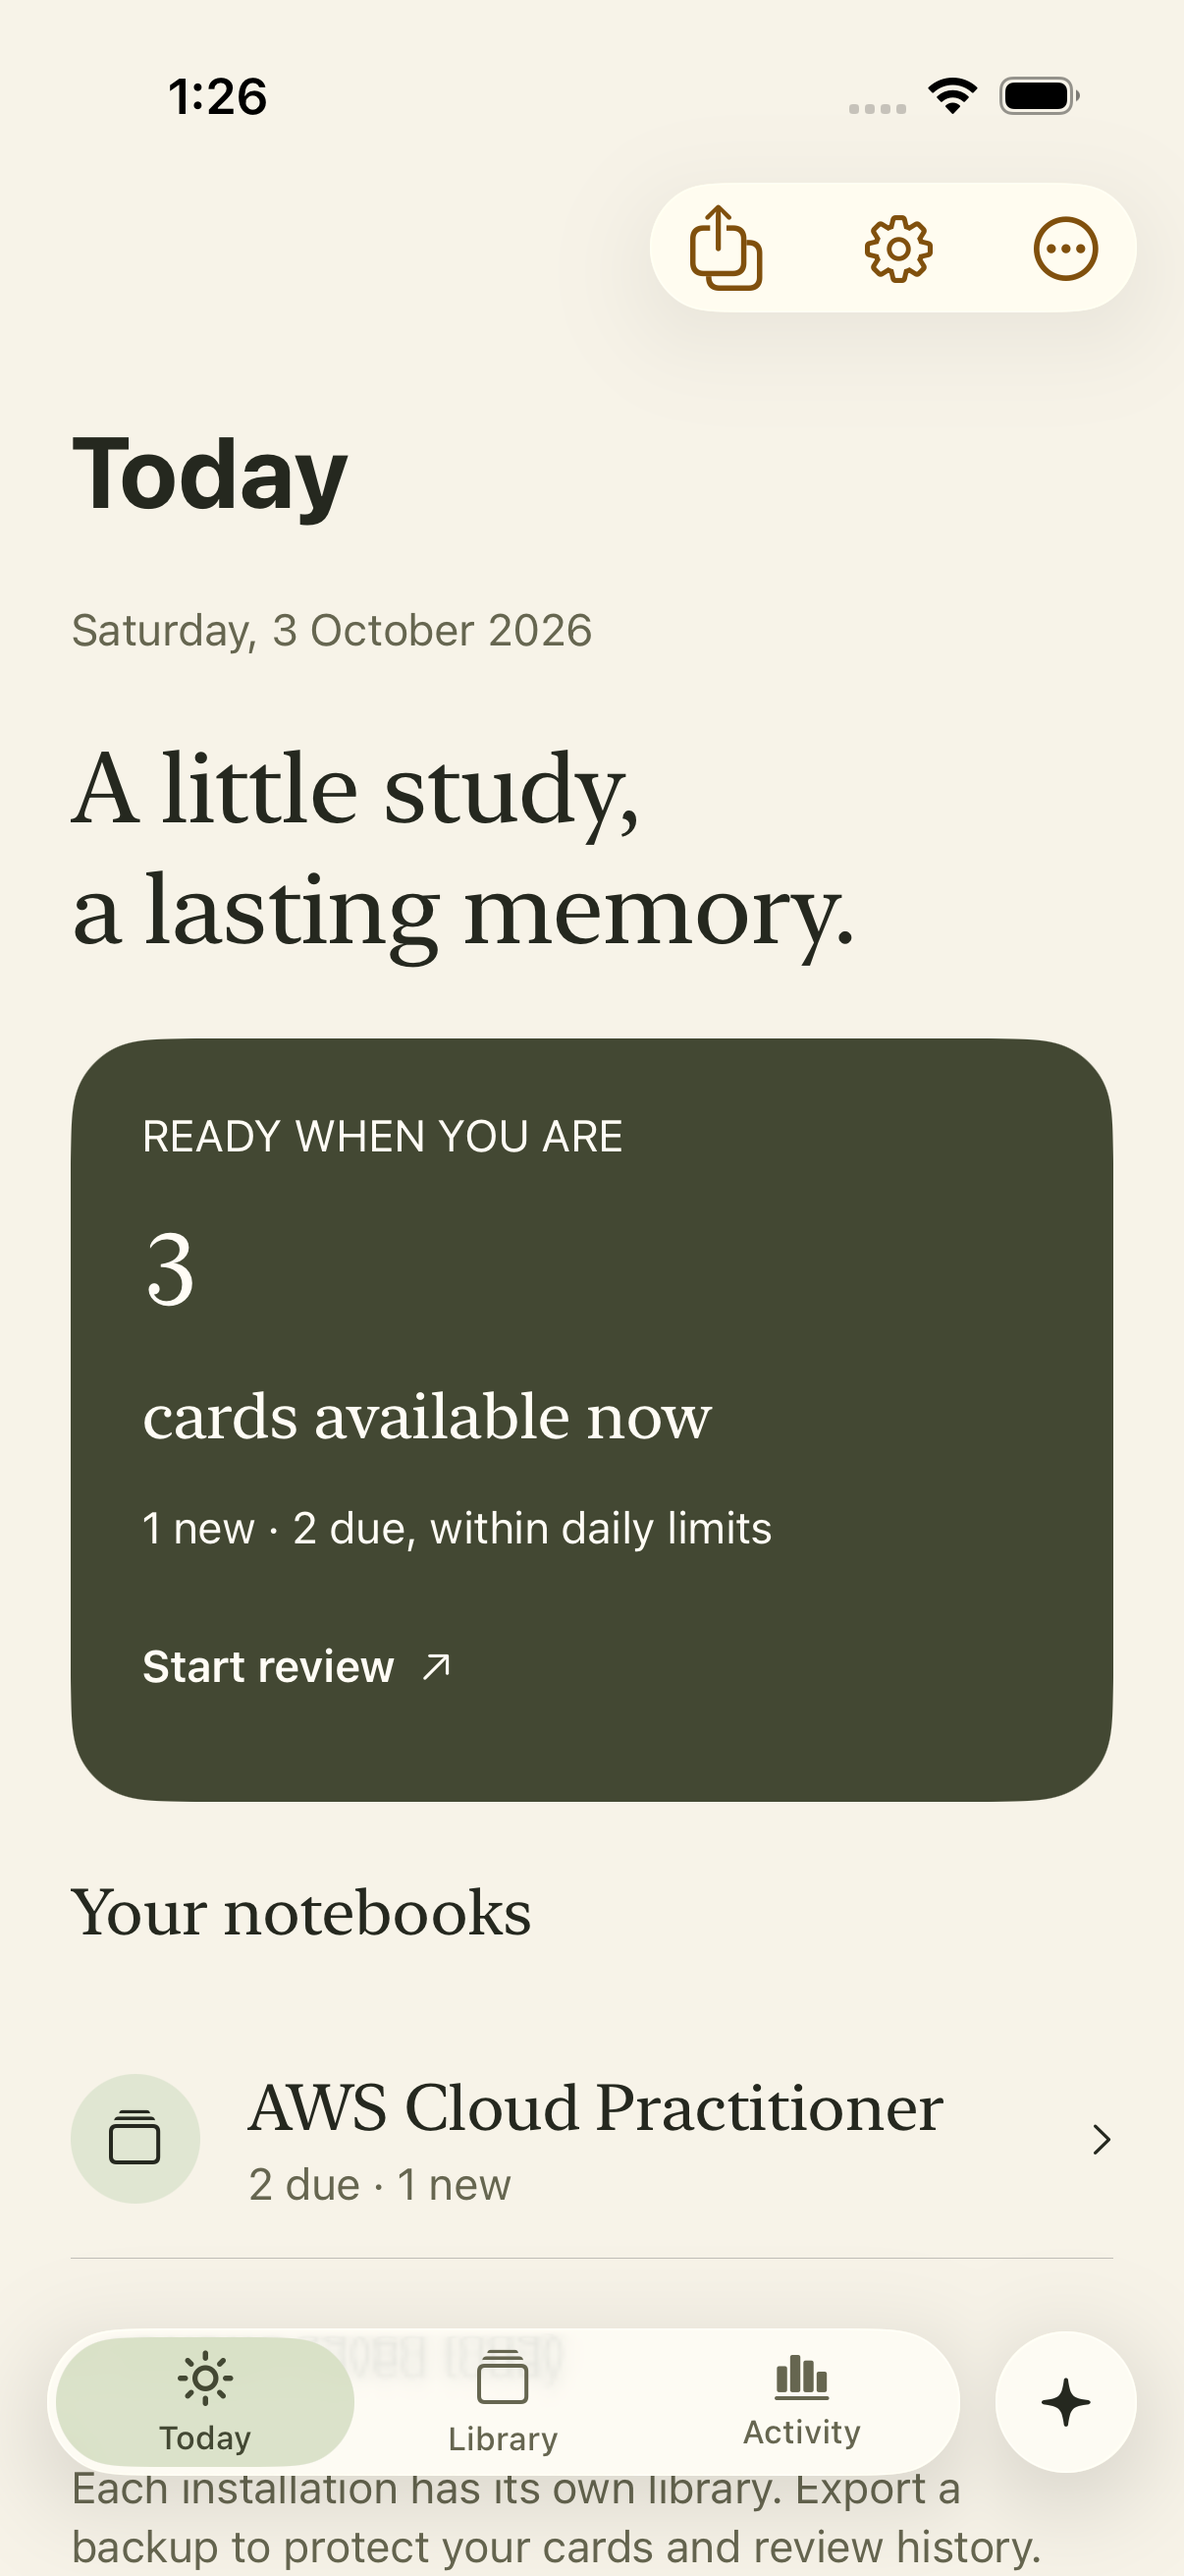
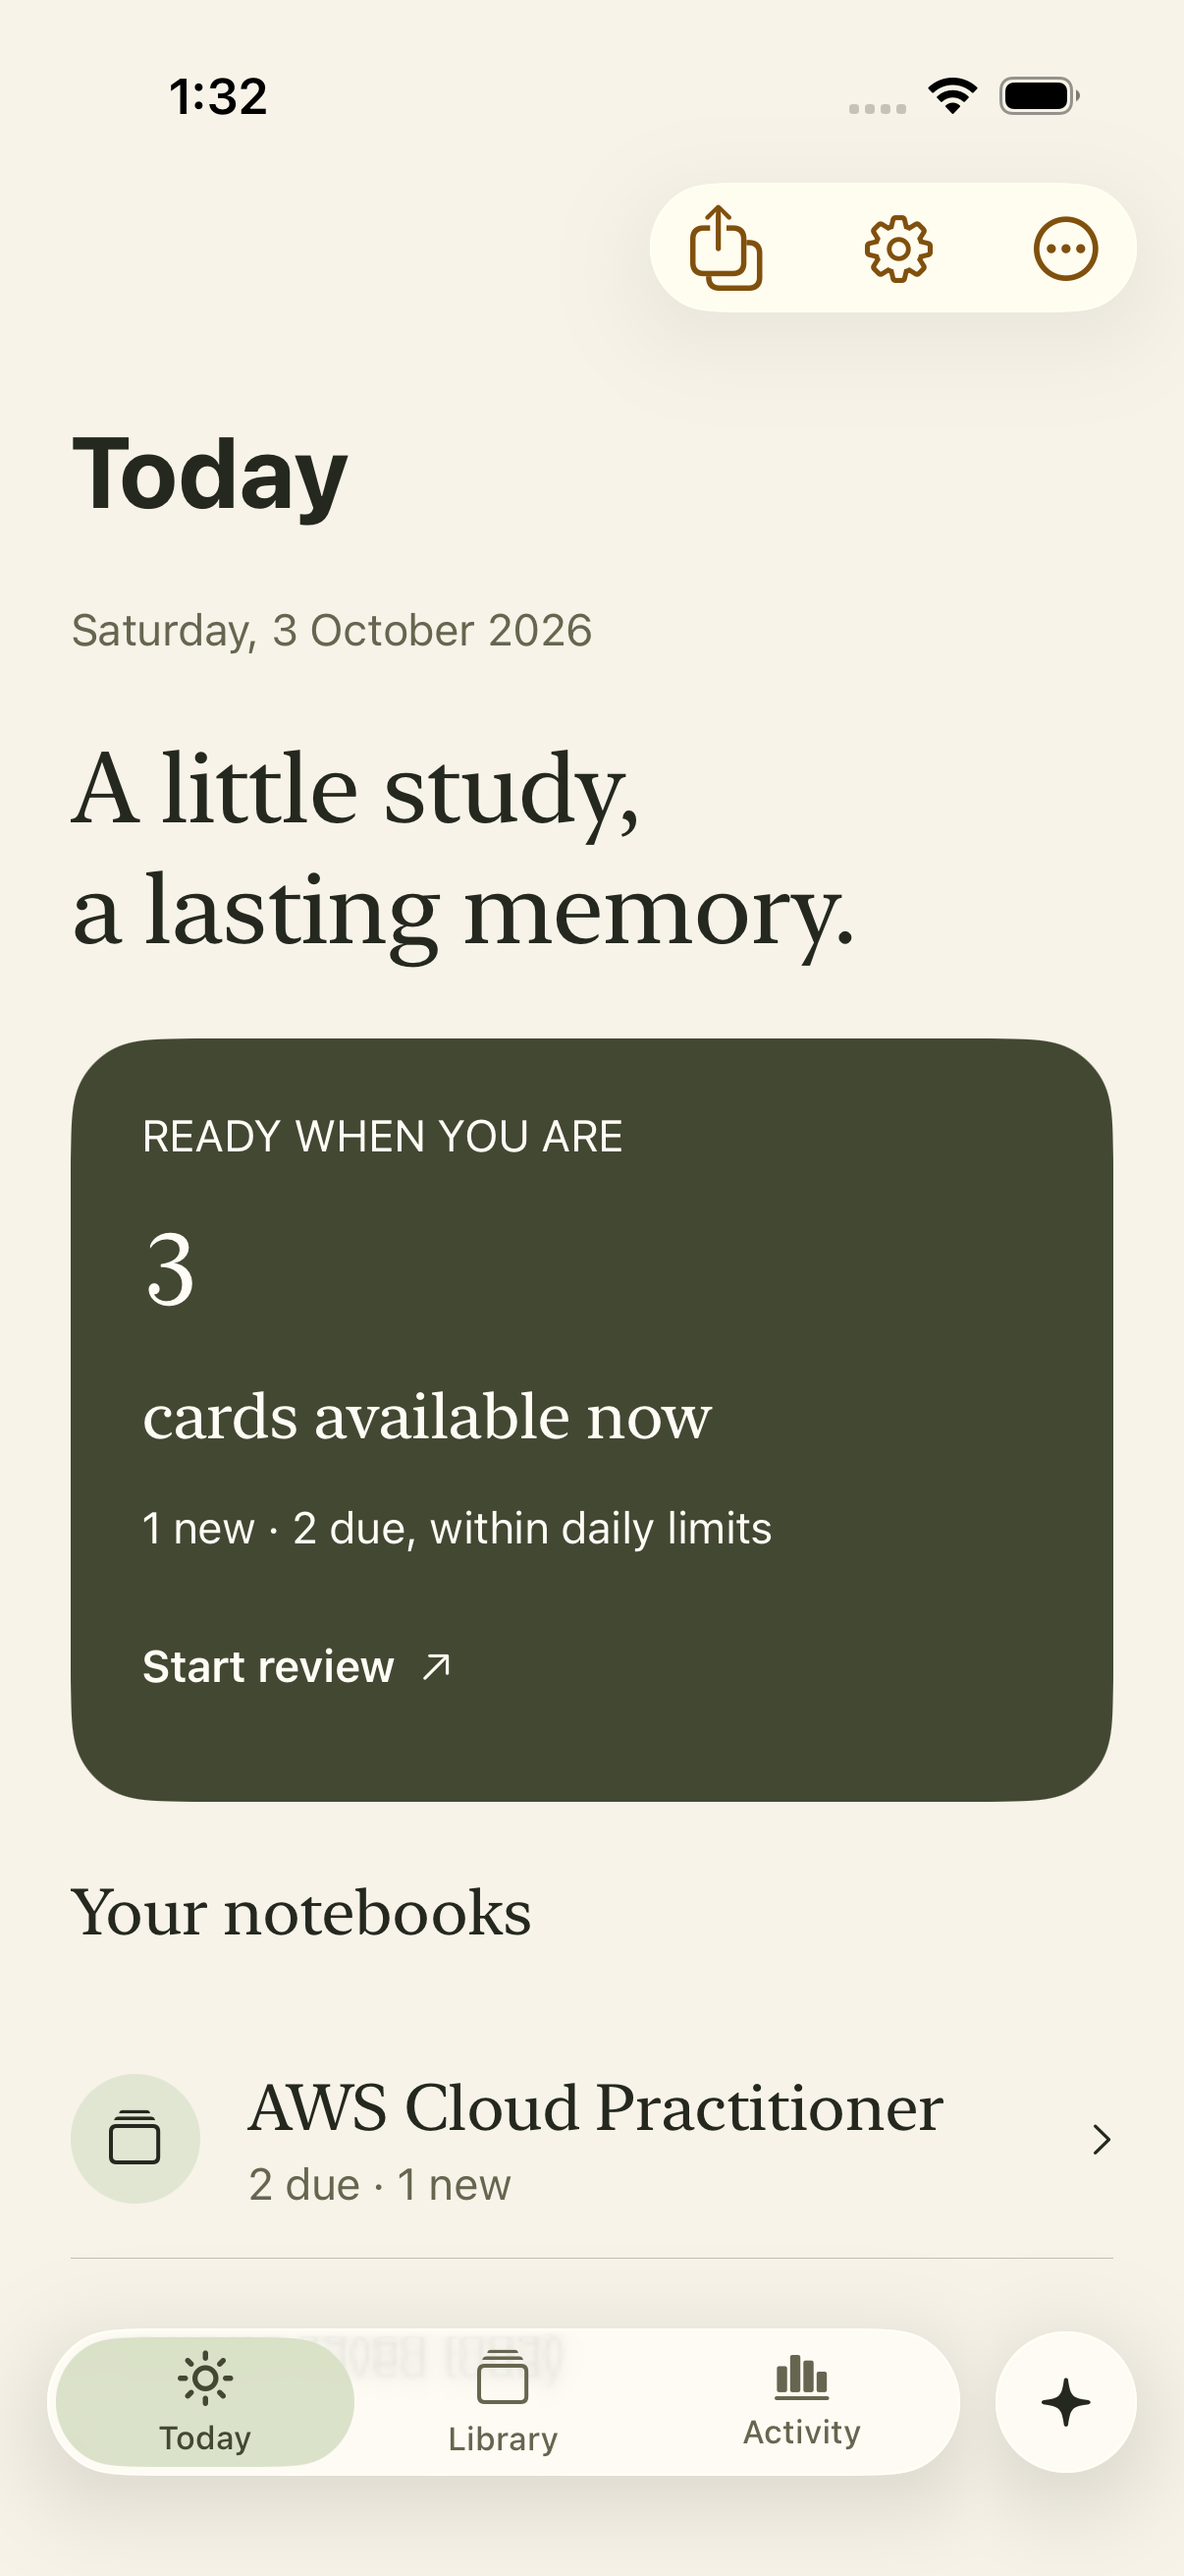
Move utility actions into Library and Settings

Changed region(s): [[0.0614, 0.9577, 0.8897, 1.0], [0.1841, 0.0309, 0.2148, 0.0618]]

diff --git a/Sources/Features/EngramRootView.swift b/Sources/Features/EngramRootView.swift
@@ -138,7 +138,7 @@ public struct EngramRootView: View {
                 #if os(iOS)
                 LibraryExplorerView(model: model, importAction: portabilityAction).engramAssistantClearance()
                 #else
-                LibraryView(model: model)
+                LibraryView(model: model, portabilityAction: portabilityAction)
                 #endif
             case .activity: ActivityView(model: model).engramAssistantClearance()
             }
@@ -147,7 +147,7 @@ public struct EngramRootView: View {
             EditorView(model: model, embedded: true).engramAssistantClearance().engramCaptureSurface()
         }
         .navigationDestination(isPresented: Binding(get: { model.destination == destination && model.settingsPresented }, set: { model.settingsPresented = $0 })) {
-            SettingsView(model: model, embedded: true, portabilityAction: portabilityAction).engramCaptureSurface()
+            SettingsView(model: model, embedded: true, portabilityAction: portabilityAction, screenshotAction: screenshotAction).engramCaptureSurface()
         }
         .navigationDestination(isPresented: Binding(get: { model.destination == destination && model.creationPresented }, set: { model.creationPresented = $0 })) {
             NotebookCreationPage(model: model).engramAssistantClearance().engramCaptureSurface()
@@ -165,15 +165,8 @@ public struct EngramRootView: View {
         .toolbar {
             ToolbarItemGroup(placement: .automatic) {
               if model.activeDeckOverviewID == nil && model.activeContentDeckID == nil && model.notebookDeckID == nil && model.questionsDeckID == nil && !model.reviewPresented && !model.editorPresented && !model.creationPresented {
-                if let portabilityAction { Button(action: portabilityAction) { Label("Import and export", systemImage: "square.and.arrow.up.on.square") } }
                 Button { model.settingsPresented = true } label: { Label("Settings", systemImage: "gearshape") }
-                if let screenshotAction {
-                    Menu {
-                        Button(action: screenshotAction) { Label("Screenshot all pages…", systemImage: "camera.on.rectangle") }
-                            .disabled(!model.loaded || model.busy)
-                    } label: { Label("More", systemImage: "ellipsis.circle") }
-                    .accessibilityIdentifier("screenshot-menu")
-                }
+
               }
             }
         }

diff --git a/Sources/Features/SettingsView.swift b/Sources/Features/SettingsView.swift
@@ -72,6 +72,7 @@ struct SettingsView: View {
     @Bindable var model: EngramModel
     var embedded = false
     var portabilityAction: (() -> Void)?
+    var screenshotAction: (() -> Void)?
     @Environment(\.dismiss) private var dismiss
     @Environment(\.colorScheme) private var scheme
     @Environment(\.dynamicTypeSize) private var typeSize
@@ -123,6 +124,16 @@ struct SettingsView: View {
                         }
                     }
                   } footer: { if search.isEmpty && index == groups.count - 1 { Text("Your library is stored on this device. Changes save automatically.") } }
+                }
+                if let screenshotAction, search.isEmpty || "Screenshot all pages".localizedCaseInsensitiveContains(search) {
+                    EngramListSection {
+                        Button(action: screenshotAction) {
+                            Label("Screenshot all pages…", systemImage: "camera.on.rectangle")
+                                .frame(minHeight: 44)
+                        }
+                        .disabled(!model.loaded || model.busy)
+                        .accessibilityIdentifier("settings-screenshot-all-pages")
+                    }
                 }
                 if !search.isEmpty && !SettingsPage.allCases.contains(where: { ($0.rawValue + " " + $0.keywords).localizedCaseInsensitiveContains(search) }) {
                     ContentUnavailableView.search(text: search)

diff --git a/Tests/EngramUITests/MinimalistStudyUITests.swift b/Tests/EngramUITests/MinimalistStudyUITests.swift
@@ -1,6 +1,24 @@
 import XCTest
 
 final class MinimalistStudyUITests: XCTestCase {
+    @MainActor func testLibraryAndSettingsUtilityRoutes() {
+        let app = launch()
+        XCTAssertTrue(app.buttons["assistant-entry"].waitForExistence(timeout: 15))
+        XCTAssertFalse(app.buttons["Import and export"].exists)
+        XCTAssertFalse(app.buttons["screenshot-menu"].exists)
+        capture("Today-Settings-Only", app)
+        app.buttons["tab-library"].tap()
+        let portability = app.buttons["library-import-export"]
+        XCTAssertTrue(portability.waitForExistence(timeout: 5))
+        capture("Library-Utility-Actions", app)
+        app.buttons["Settings"].tap()
+        let screenshots = app.buttons["settings-screenshot-all-pages"]
+        for _ in 0..<5 where !screenshots.isHittable { app.swipeUp() }
+        XCTAssertTrue(screenshots.isHittable)
+        capture("Settings-Bottom-Utilities", app)
+        screenshots.tap()
+        XCTAssertTrue(app.buttons["capture-all-pages"].waitForExistence(timeout: 5))
+    }
     @MainActor func testShortChatFitsItsContent() {
         let app = launch()
         XCTAssertTrue(app.buttons["assistant-entry"].waitForExistence(timeout:15)); app.buttons["assistant-entry"].tap()

diff --git a/Sources/Features/LibraryScreens.swift b/Sources/Features/LibraryScreens.swift
@@ -83,6 +83,7 @@ struct DeckRow: View {
 
 struct LibraryView: View {
     @Bindable var model: EngramModel
+    var portabilityAction: (() -> Void)?
     @Environment(\.engramTheme) private var theme
     @Environment(\.colorScheme) private var scheme
     private var palette: EngramPalette { theme.palette(for: scheme) }
@@ -115,6 +116,11 @@ struct LibraryView: View {
                                 Divider()
                             }
                             if decks.isEmpty { Text("No matching decks").foregroundStyle(palette.secondaryText) }
+                        }
+                        if let portabilityAction {
+                            Button("Import or export library", action: portabilityAction)
+                                .font(.caption).foregroundStyle(palette.secondaryText).frame(minHeight: 44)
+                                .accessibilityIdentifier("library-import-export")
                         }
                     }.padding(EngramSpacing.section).frame(maxWidth: 760).frame(maxWidth: .infinity)
                 }

diff --git a/Sources/Features/LibraryExplorerView.swift b/Sources/Features/LibraryExplorerView.swift
@@ -106,6 +106,7 @@ struct LibraryExplorerView: View {
                 if let importAction {
                     Button("Import or export library",action:importAction)
                         .font(.caption).foregroundStyle(palette.secondaryText).frame(minHeight:44)
+                        .accessibilityIdentifier("library-import-export")
                 }
             }
             .padding(.horizontal,20).padding(.top,8).padding(.bottom,28)

diff --git a/docs/UTILITY-ACTION-PLACEMENT.md b/docs/UTILITY-ACTION-PLACEMENT.md
@@ -1,0 +1,8 @@
+# Utility action placement
+
+- Root screen toolbar contains only Settings.
+- Import/export is available in Library, including the desktop Library view.
+- Screenshot all pages is the final Settings section, retaining loading/busy safeguards.
+- Screenshot capture still opens its native review screen before capturing or saving anything.
+
+Validation: the focused simulator route test passed in `/tmp/engram-utility-routes.xcresult`, checking removal of old toolbar controls, Library access, Settings footer reachability and screenshot review presentation. Screenshots were inspected and rotated in `current_ui`. The signed update installed and launched on the paired iPhone at 20:49 on 3 October 2026.
